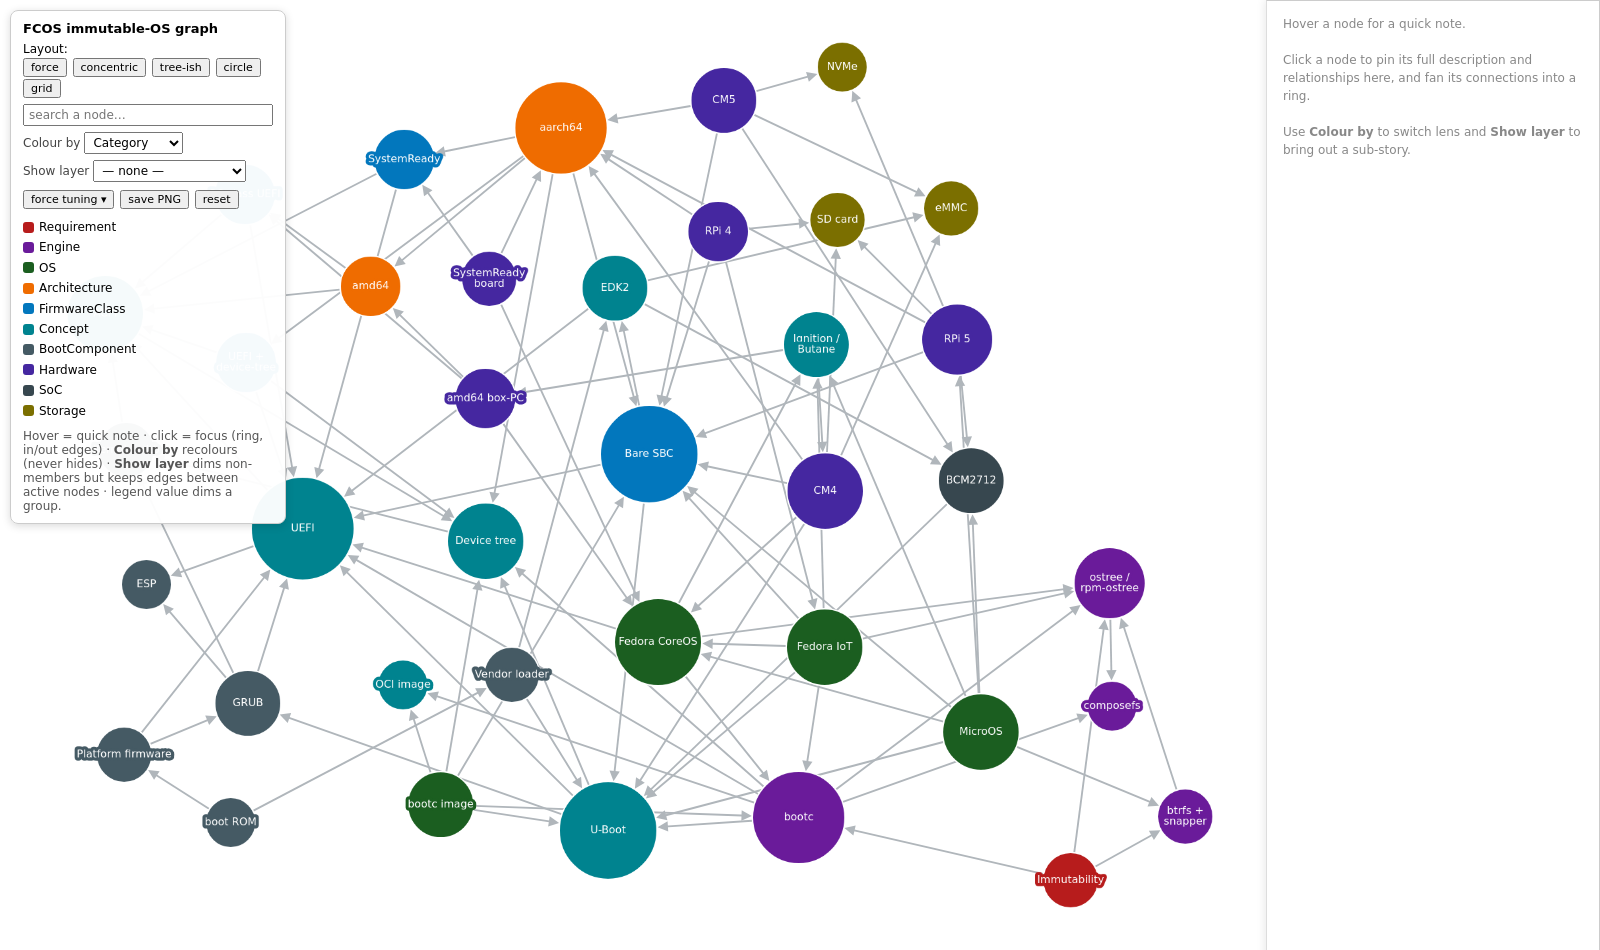
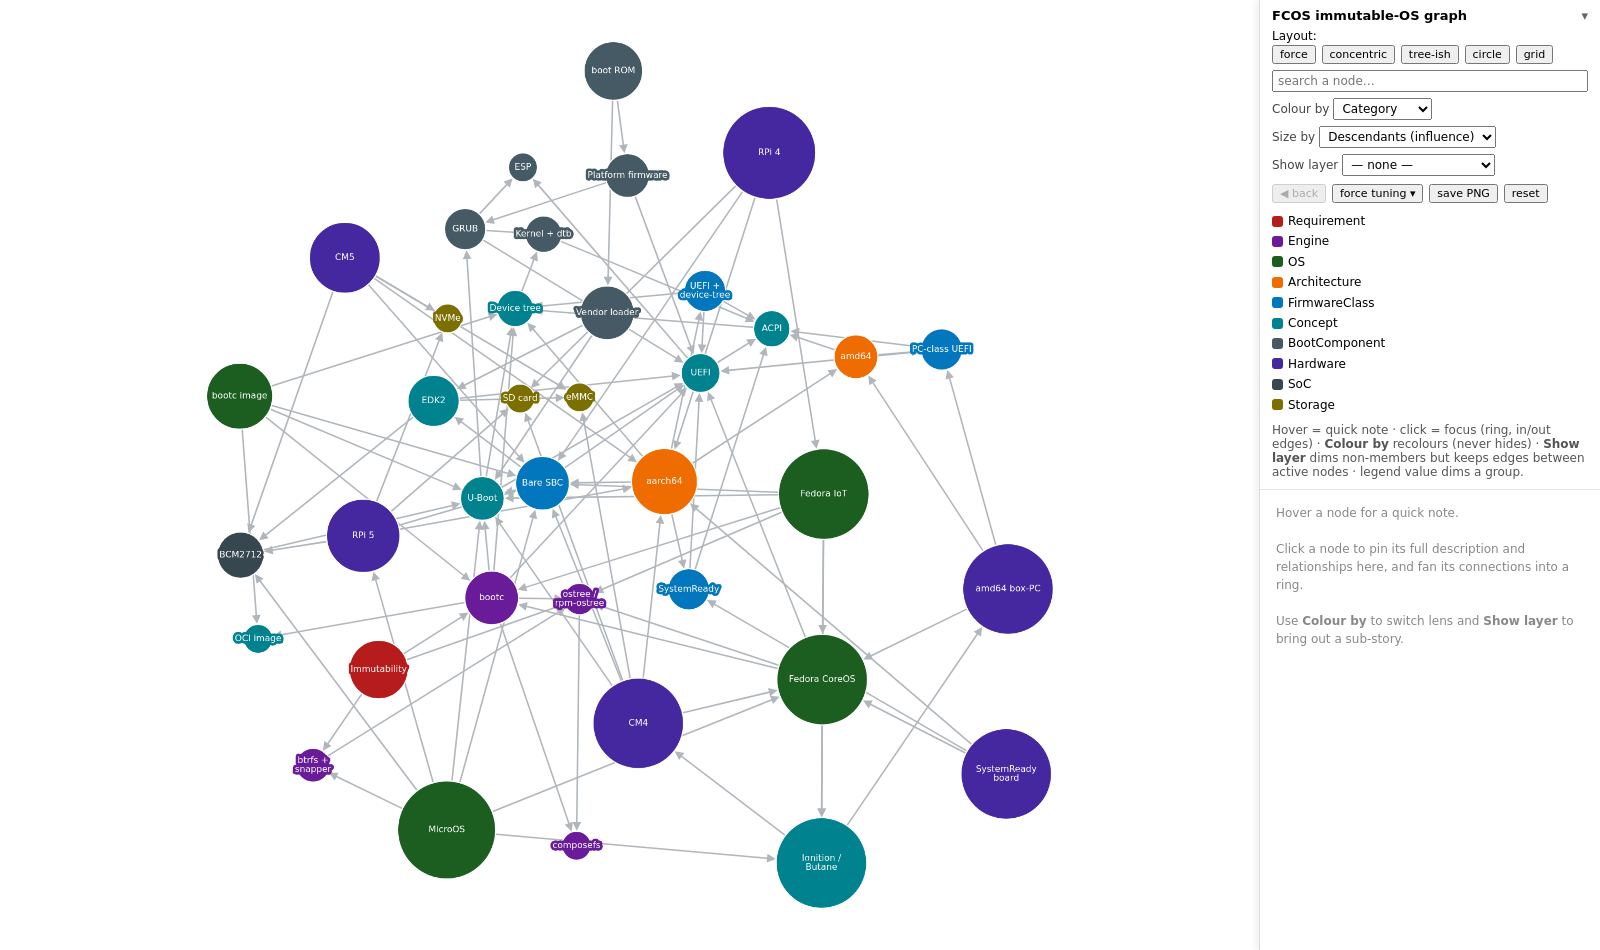
renderer: circle ordered by size (largest at 12 o'clock, clockwise); re-run layout on metric change; move settings to a collapsible RHS sidebar
- circle layout: nodes placed by the size metric, largest at 12 o'clock,
  decreasing clockwise (positioned manually; built-in sort was unreliable).
- changing 'Size by' now re-runs the active layout (positions reflect new
  sizes/ordering) instead of only resizing in place; skipped while a node is
  focused so the ring is preserved.
- settings panel moved from the top-left overlay into the right-hand sidebar,
  above the details box, with a collapsible header. The graph now uses the full
  width to its left. Refresh README screenshots for the new layout.

diff --git a/src/graph.html b/src/graph.html
@@ -6,11 +6,17 @@
 <title>Knowledge graph — Cytoscape.js</title>
 <style>
   html, body { margin: 0; height: 100%; font-family: system-ui, sans-serif; }
-  #cy { position: absolute; top: 0; bottom: 0; left: 0; right: 320px; }
-  .panel { position: absolute; z-index: 10; background: rgba(255,255,255,0.96);
-    border: 1px solid #ccc; border-radius: 8px; box-shadow: 0 2px 8px rgba(0,0,0,.15); font-size: 12px; }
-  #controls { top: 10px; left: 10px; padding: 10px 12px; max-width: 250px; max-height: 94vh; overflow-y: auto; }
-  #controls h1 { font-size: 13px; margin: 0 0 6px; }
+  #cy { position: absolute; top: 0; bottom: 0; left: 0; right: 340px; }
+  /* right-hand sidebar holds the collapsible settings on top and the details below */
+  #sidebar { position: absolute; top: 0; right: 0; width: 340px; height: 100%; z-index: 10;
+    display: flex; flex-direction: column; background: #fff; border-left: 1px solid #ddd;
+    box-shadow: -2px 0 8px rgba(0,0,0,.08); font-size: 12px; }
+  #controls { padding: 8px 12px 10px; border-bottom: 1px solid #e6e6e6; overflow-y: auto; max-height: 64%; flex-shrink: 0; }
+  #controls.collapsed #ctrlbody { display: none; }
+  #ctrlhdr { display: flex; align-items: center; justify-content: space-between; cursor: pointer; user-select: none; }
+  #ctrltitle { font-size: 13px; font-weight: 700; }
+  #collapseCtrls { font-size: 13px; color: #666; }
+  #ctrlbody { margin-top: 6px; }
   #controls button { font-size: 11px; margin: 2px 2px 0 0; cursor: pointer; }
   #controls select, #search { font-size: 12px; padding: 2px 4px; }
   .fld { margin-top: 6px; } .fld label { color:#444; margin-right: 4px; }
@@ -30,8 +36,7 @@
   .chip { display: inline-block; width: 11px; height: 11px; border-radius: 3px; vertical-align: -1px; margin-right: 5px; }
   .hint { color: #555; margin-top: 8px; }
 
-  #details { top: 0; right: 0; width: 300px; height: 100%; border-radius: 0; border-left: 1px solid #ddd;
-    padding: 14px 16px; overflow-y: auto; box-shadow: -2px 0 8px rgba(0,0,0,.08); }
+  #details { flex: 1; min-height: 0; padding: 14px 16px; overflow-y: auto; }
   #details .dh { font-size: 16px; font-weight: 700; display: flex; align-items: center; }
   #details .dh .chip { width: 14px; height: 14px; }
   #details .grp { color: #666; font-size: 11px; text-transform: uppercase; letter-spacing: .04em; margin: 2px 0 8px 19px; }
@@ -66,51 +71,58 @@
 </script>
 </head>
 <body>
-<div id="controls" class="panel">
-  <h1>Knowledge graph</h1>
-  <div>Layout:
-    <div>
-      <button data-layout="cose">force</button>
-      <button data-layout="concentric">concentric</button>
-      <button data-layout="breadthfirst">tree-ish</button>
-      <button data-layout="circle">circle</button>
-      <button data-layout="grid">grid</button>
+<div id="sidebar">
+  <div id="controls">
+    <div id="ctrlhdr"><span id="ctrltitle">Knowledge graph</span><span id="collapseCtrls" title="collapse settings">▾</span></div>
+    <div id="ctrlbody">
+      <div>Layout:
+        <div>
+          <button data-layout="cose">force</button>
+          <button data-layout="concentric">concentric</button>
+          <button data-layout="breadthfirst">tree-ish</button>
+          <button data-layout="circle">circle</button>
+          <button data-layout="grid">grid</button>
+        </div>
+      </div>
+      <input id="search" list="nodelist" placeholder="search a node…" />
+      <datalist id="nodelist"></datalist>
+      <div class="fld"><label>Colour by</label><select id="colorby"></select></div>
+      <div class="fld"><label>Size by</label><select id="sizeby">
+        <option value="out">Descendants (influence)</option>
+        <option value="in">Ancestors (depends-on)</option>
+        <option value="deg">Connections (degree)</option>
+      </select></div>
+      <div class="fld"><label>Show layer</label><select id="layer"></select></div>
+      <div style="margin-top:6px">
+        <button id="back" disabled>◀ back</button>
+        <button id="toggleForces">force tuning ▾</button>
+        <button id="png">save PNG</button>
+        <button id="reset">reset</button>
+      </div>
+      <div id="forces">
+        <div class="row"><label>node repulsion</label><input id="f_rep" type="range" min="1000" max="40000" step="500" value="14000"><span id="v_rep"></span></div>
+        <div class="row"><label>edge length</label><input id="f_len" type="range" min="40" max="320" step="10" value="150"><span id="v_len"></span></div>
+        <div class="row"><label>spring const</label><input id="f_el" type="range" min="0" max="200" step="5" value="35"><span id="v_el"></span></div>
+        <div class="row"><label>node overlap</label><input id="f_ov" type="range" min="0" max="60" step="2" value="24"><span id="v_ov"></span></div>
+        <div class="row"><label>gravity</label><input id="f_grav" type="range" min="0" max="2" step="0.05" value="0.25"><span id="v_grav"></span></div>
+        <div><button id="rerun">re-run force layout</button></div>
+      </div>
+      <div id="legend"></div>
+      <div class="hint">Hover = quick note · click = focus (ring, in/out edges) · <b>Colour by</b> recolours (never hides) · <b>Show layer</b> dims non-members but keeps edges between active nodes · legend value dims a group.</div>
     </div>
   </div>
-  <input id="search" list="nodelist" placeholder="search a node…" />
-  <datalist id="nodelist"></datalist>
-  <div class="fld"><label>Colour by</label><select id="colorby"></select></div>
-  <div class="fld"><label>Size by</label><select id="sizeby">
-    <option value="out">Descendants (influence)</option>
-    <option value="in">Ancestors (depends-on)</option>
-    <option value="deg">Connections (degree)</option>
-  </select></div>
-  <div class="fld"><label>Show layer</label><select id="layer"></select></div>
-  <div style="margin-top:6px">
-    <button id="back" disabled>◀ back</button>
-    <button id="toggleForces">force tuning ▾</button>
-    <button id="png">save PNG</button>
-    <button id="reset">reset</button>
-  </div>
-  <div id="forces">
-    <div class="row"><label>node repulsion</label><input id="f_rep" type="range" min="1000" max="40000" step="500" value="14000"><span id="v_rep"></span></div>
-    <div class="row"><label>edge length</label><input id="f_len" type="range" min="40" max="320" step="10" value="150"><span id="v_len"></span></div>
-    <div class="row"><label>spring const</label><input id="f_el" type="range" min="0" max="200" step="5" value="35"><span id="v_el"></span></div>
-    <div class="row"><label>node overlap</label><input id="f_ov" type="range" min="0" max="60" step="2" value="24"><span id="v_ov"></span></div>
-    <div class="row"><label>gravity</label><input id="f_grav" type="range" min="0" max="2" step="0.05" value="0.25"><span id="v_grav"></span></div>
-    <div><button id="rerun">re-run force layout</button></div>
-  </div>
-  <div id="legend"></div>
-  <div class="hint">Hover = quick note · click = focus (ring, in/out edges) · <b>Colour by</b> recolours (never hides) · <b>Show layer</b> dims non-members but keeps edges between active nodes · legend value dims a group.</div>
+  <div id="details"></div>
 </div>
-
-<div id="details" class="panel"></div>
 <div id="tip"></div>
 <div id="cy"></div>
 
 <script>
   const G = window.KG || window.FCOS_GRAPH;   // window.KG is the generic global; FCOS_GRAPH kept for back-compat
-  if (G && G.title) document.querySelector('#controls h1').textContent = G.title;
+  if (G && G.title) document.getElementById('ctrltitle').textContent = G.title;
+  document.getElementById('ctrlhdr').addEventListener('click', () => {
+    const c = document.getElementById('controls'); c.classList.toggle('collapsed');
+    document.getElementById('collapseCtrls').textContent = c.classList.contains('collapsed') ? '▸' : '▾';
+  });
   const byId = Object.fromEntries(G.nodes.map(n => [n.id, n]));
   const flat = (id) => (byId[id] ? byId[id].label.replace(/\n/g, ' ') : id);
 
@@ -140,6 +152,7 @@
   G.nodes.forEach(n => { reachOut[n.id] = closureSize(n.id, outBySrc); reachIn[n.id] = closureSize(n.id, inByTgt); });
   const METRICS = { out: reachOut, in: reachIn, deg: deg };
   let sizeBy = 'out';
+  let currentLayout = 'cose';   // which layout is active, so a metric change can re-run it
   const metric = () => METRICS[sizeBy];
   const maxMetricId = () => Object.keys(metric()).sort((a, b) => metric()[b] - metric()[a])[0];
 
@@ -336,7 +349,7 @@
     nodeOverlap: +f_ov.value, gravity: +f_grav.value, componentSpacing: 60, numIter: 1200, nestingFactor: 0.9 });
   let capture = false;
   cy.on('layoutstop', () => { if (capture) { cy.nodes().forEach(n => n.scratch('_pos', Object.assign({}, n.position()))); capture = false; } });
-  function runForce() { capture = true; cy.layout(forceOpts()).run(); }
+  function runForce() { currentLayout = 'cose'; capture = true; cy.layout(forceOpts()).run(); }
 
   // ---------- legend (for current colour-by facet); values dim, not hide ----------
   const legend = document.getElementById('legend');
@@ -374,7 +387,10 @@
     Object.entries(G.facets).map(([k, f]) => `<option value="${k}">${f.name}</option>`).join('');
   cbSel.addEventListener('change', () => { colorBy = cbSel.value; resetEnabled(); recolor(); buildLegend(); applyView(); });
 
-  document.getElementById('sizeby').addEventListener('change', (e) => { sizeBy = e.target.value; applySize(); });
+  document.getElementById('sizeby').addEventListener('change', (e) => {
+    sizeBy = e.target.value; applySize();
+    if (!pinned) runLayout(currentLayout);   // re-run the active layout so positions reflect the new sizes
+  });
   document.getElementById('back').addEventListener('click', goBack);
 
   const lySel = document.getElementById('layer');
@@ -382,16 +398,27 @@
     Object.entries(G.layers).map(([k, l]) => `<option value="${k}">${l.name}</option>`).join('');
   lySel.addEventListener('change', () => { currentLayer = lySel.value; applyView(); });
 
-  document.querySelectorAll('#controls button[data-layout]').forEach(b => b.addEventListener('click', () => {
-    const name = b.getAttribute('data-layout');
+  function runLayout(name) {
+    currentLayout = name;
     if (name === 'cose') return runForce();
     const opts = { name, animate: true, padding: 40 };
     // concentric: rank rings by the current size metric (largest in the centre)
     if (name === 'concentric') Object.assign(opts, { concentric: (n) => metric()[n.id()], levelWidth: () => 3, minNodeSpacing: 40 });
     // tree-ish: root the tree at the highest-metric node -> largest on top, smaller below
     if (name === 'breadthfirst') { const r = maxMetricId(); Object.assign(opts, { directed: true, spacingFactor: 1.1, roots: r ? ('#' + r) : undefined }); }
+    // circle: order by the size metric, largest at 12 o'clock, decreasing clockwise.
+    // (Built manually — cytoscape's circle `sort` was unreliable here.)
+    if (name === 'circle') {
+      const ordered = G.nodes.map(n => n.id).sort((a, b) => metric()[b] - metric()[a]);
+      const N = ordered.length, R = Math.max(300, N * 14), pos = {};
+      ordered.forEach((id, i) => { const th = 2 * Math.PI * i / N; pos[id] = { x: R * Math.sin(th), y: -R * Math.cos(th) }; });
+      capture = true;
+      cy.layout({ name: 'preset', positions: (n) => pos[n.id()], animate: true, animationDuration: 500, fit: true, padding: 40 }).run();
+      return;
+    }
     capture = true; cy.layout(opts).run();
-  }));
+  }
+  document.querySelectorAll('#controls button[data-layout]').forEach(b => b.addEventListener('click', () => runLayout(b.getAttribute('data-layout'))));
   const syncLabels = () => { v_rep.textContent = f_rep.value; v_len.textContent = f_len.value; v_el.textContent = f_el.value;
     v_ov.textContent = f_ov.value; v_grav.textContent = (+f_grav.value).toFixed(2); };
   ['f_rep','f_len','f_el','f_ov','f_grav'].forEach(id => document.getElementById(id).addEventListener('input', syncLabels));